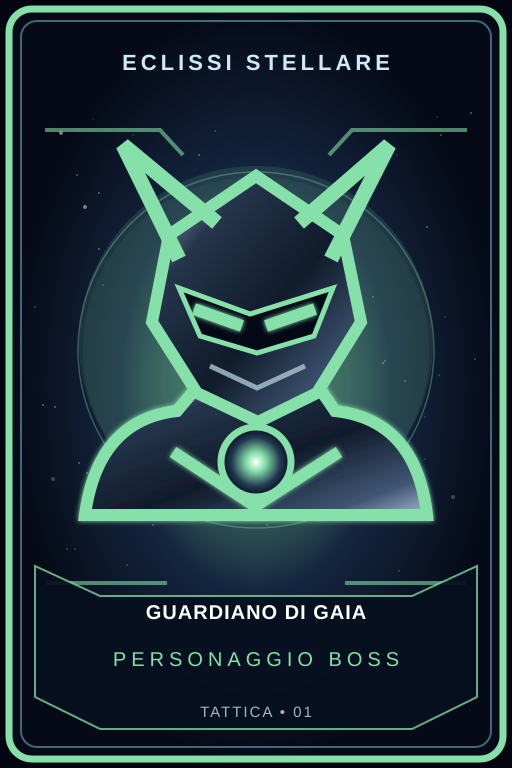
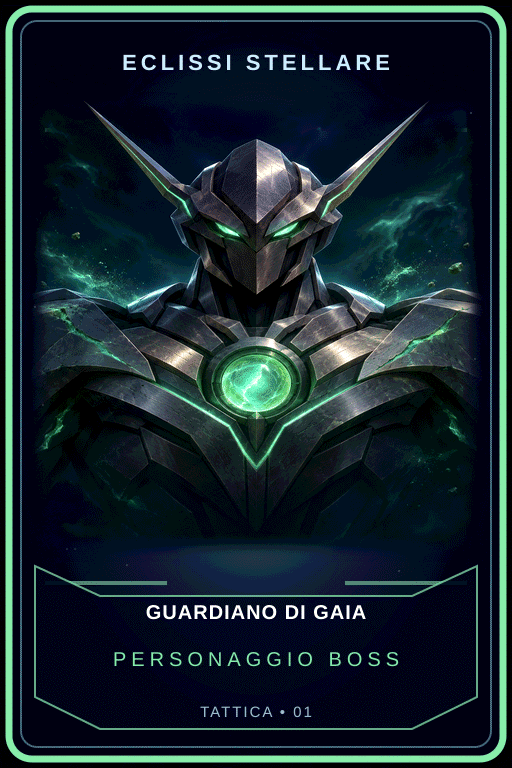
Illustra quattro carte speciali e chiarisce il duello simulato

diff --git a/src/App.tsx b/src/App.tsx
@@ -1963,10 +1963,10 @@ const LANGUAGES = Object.freeze({
 
 // 1.9 SEMI BALISTICI & SINERGIE TEMPORALI / ECONOMICHE / CURE PERCENTUALI
 const SUITS = Object.freeze([
-  { id: 'hearts', name: 'Cuori', symbol: 'â™¥', color: '#f43f5e', glow: 'rgba(244, 63, 94, 0.85)', synergy: '+8% HP Max Cura (+12% Toro) | Dorato: +16% (+24%)' },
-  { id: 'diamonds', name: 'Quadri', symbol: 'â™¦', color: '#00f2fe', glow: 'rgba(0, 242, 254, 0.85)', synergy: '+2 Polvere 🌟 | Dorato: +20 🌟 e 10% 💎' },
-  { id: 'spades', name: 'Picche', symbol: 'â™ ', color: '#c084fc', glow: 'rgba(192, 132, 252, 0.85)', synergy: '+3 HP Danno Diretto | Dorato: +8 HP Puro' },
-  { id: 'clubs', name: 'Fiori', symbol: 'â™£', color: '#10b981', glow: 'rgba(16, 185, 129, 0.85)', synergy: '+5s Serbatoio Tempo | Dorato: +15s e +1🔮' }
+  { id: 'hearts', name: 'Cuori', symbol: '♥', color: '#f43f5e', glow: 'rgba(244, 63, 94, 0.85)', synergy: '+8% HP Max Cura (+12% Toro) | Dorato: +16% (+24%)' },
+  { id: 'diamonds', name: 'Quadri', symbol: '♦', color: '#00f2fe', glow: 'rgba(0, 242, 254, 0.85)', synergy: '+2 Polvere 🌟 | Dorato: +20 🌟 e 10% 💎' },
+  { id: 'spades', name: 'Picche', symbol: '♠', color: '#c084fc', glow: 'rgba(192, 132, 252, 0.85)', synergy: '+3 HP Danno Diretto | Dorato: +8 HP Puro' },
+  { id: 'clubs', name: 'Fiori', symbol: '♣', color: '#10b981', glow: 'rgba(16, 185, 129, 0.85)', synergy: '+5s Serbatoio Tempo | Dorato: +15s e +1🔮' }
 ]);
 
 // 1.10 FACCE DADI QUANTICI 2D (DISPLAY B)
@@ -20977,20 +20977,20 @@ function App() {
       )}
 
 
-            {/* MODALE SELEZIONE CANALE PVP & 4 MODALITÀ FARMING */}
+            {/* Selezione del circuito PvP simulato */}
       {showPvPChannelModal && (
         <div style={{ position: 'fixed', inset: 0, background: 'rgba(2, 4, 12, 0.96)', display: 'flex', alignItems: 'center', justifyContent: 'center', zIndex: 15000, padding: '1rem' }}>
           <div className="cyber-panel" style={{ padding: '1.25rem', maxWidth: '460px', width: '100%', maxHeight: '90vh', overflowY: 'auto', border: '2px solid #00f2fe', boxShadow: '0 0 45px rgba(0, 242, 254, 0.5)' }}>
             <div style={{ display: 'flex', justifyContent: 'space-between', alignItems: 'center', borderBottom: '1px solid rgba(255, 255, 255, 0.12)', paddingBottom: '0.4rem', marginBottom: '0.85rem' }}>
               <h3 style={{ color: '#00f2fe', margin: 0, fontWeight: '900', fontSize: '1.1rem', textShadow: '0 0 8px rgba(0, 242, 254, 0.6)' }}>
-                Seleziona Circuito PvP
+                Seleziona Circuito PvP Simulato
               </h3>
               <button className="cyber-btn" onClick={() => setShowPvPChannelModal(false)} style={{ background: '#ef4444', borderColor: '#f87171', padding: '0.2rem 0.5rem' }}>X</button>
             </div>
 
             <div style={{ display: 'flex', flexDirection: 'column', gap: '0.85rem' }}>
               
-              {/* CANALE A: ADDESTRAMENTO & FARMING CON LE 4 MODALITÀ SBLOCCABILI */}
+              {/* Canale Addestramento */}
               {(() => {
                 const isTrainingUnlocked = currentGlobalAdventureSector >= pvpTrainingUnlockThreshold;
                 return (
@@ -21004,11 +21004,11 @@ function App() {
                     }}
                   >
                     <div style={{ display: 'flex', justifyContent: 'space-between', alignItems: 'center', marginBottom: '4px' }}>
-                      <span style={{ fontSize: '0.9rem', fontWeight: '900', color: '#38bdf8' }}>Canale Addestramento (Farming)</span>
+                      <span style={{ fontSize: '0.9rem', fontWeight: '900', color: '#38bdf8' }}>Canale Addestramento</span>
                       <span style={{ fontSize: '0.62rem', background: '#0284c7', padding: '2px 6px', borderRadius: '4px', color: '#fff', fontWeight: 'bold' }}>{trainingEntryCost} Crediti ⚡</span>
                     </div>
                                         <p style={{ fontSize: '0.68rem', color: '#cbd5e1', margin: '0 0 0.5rem 0' }}>
-                      Nessun rischio Trofei. Scegli la modalità di combattimento per allenarti:
+                      Allenati contro un pilota IA sulla plancia ufficiale.
                     </p>
 
                                         <button
@@ -21063,11 +21063,8 @@ function App() {
                       <span style={{ fontSize: '0.9rem', fontWeight: '900', color: '#fde047' }}>Lega Élite Simulata</span>
                       <span className="pvp-ticket-counter">Gioca ({remainingEliteMatches}/10)</span>
                     </div>
-                    <div style={{ fontSize: '0.68rem', color: '#38bdf8', fontWeight: 'bold', margin: '2px 0' }}>
-                      Modalità di oggi: {dailyMode.title}
-                    </div>
                     <p style={{ fontSize: '0.68rem', color: '#cbd5e1', margin: 0, lineHeight: '1.3' }}>
-                      Valutazione a 3 Stelle e classifica locale contro 500 piloti IA. Nessun podio mondiale reale.
+                      Affronta piloti IA. Hai 10 duelli Élite al giorno.
                     </p>
                     <div style={{ fontSize: '0.62rem', color: isEliteUnlocked ? '#facc15' : '#f87171', fontWeight: 'bold', marginTop: '2px' }}>
                       {isEliteUnlocked ? (remainingEliteMatches > 0 ? `✓ Sbloccato (Costo 0⚡ | ${remainingEliteMatches} partite rimaste)` : '⚠ Partite Giornaliere Esaurite') : `🔒 Richiede Settore ${pvpEliteUnlockThreshold} Avventura`}
@@ -21087,13 +21084,6 @@ function App() {
         const isElite = pendingPvPConfirmation.channel === 'elite';
         const costCredits = isElite ? 0 : trainingEntryCost;
         const canAfford = credits >= costCredits;
-        const dailyMode = getDailyPvPMode();
-                const modeLabels = {
-          classic: 'Classica (4 Operazioni)',
-          vector: 'Vettore Geometrico',
-          double_stage: 'Convergenza (Banco 2+2)',
-          tris: 'Tris Stellare'
-        };
 
         return (
           <div style={{ position: 'fixed', inset: 0, background: 'rgba(2, 4, 12, 0.98)', display: 'flex', alignItems: 'center', justifyContent: 'center', zIndex: 32000, padding: '1rem' }}>
@@ -21101,65 +21091,18 @@ function App() {
             <div className="cyber-panel" style={{ padding: '1.25rem', maxWidth: '440px', width: '100%', maxHeight: '90vh', overflowY: 'auto', textAlign: 'center', border: `2px solid ${isElite ? '#facc15' : '#00f2fe'}`, boxShadow: `0 0 45px ${isElite ? 'rgba(250, 204, 21, 0.6)' : 'rgba(0, 242, 254, 0.6)'}` }}>
               
               <div style={{ fontSize: '0.65rem', color: '#facc15', fontWeight: '900', letterSpacing: '1px' }}>
-                {isElite ? 'BRIEFING TATTICO ÉLITE' : 'CONFERMA ADDESTRAMENTO'}
+                DUELLO SIMULATO
               </div>
               <h3 style={{ color: isElite ? '#fde047' : '#00f2fe', margin: '0.2rem 0 0.5rem 0', fontWeight: '900', fontSize: '1.15rem' }}>
-                {isElite ? `Lega Élite — ${dailyMode.title}` : `Addestramento — ${modeLabels[pendingPvPConfirmation.mode]}`}
+                {isElite ? 'Lega Élite Simulata' : 'Addestramento'}
               </h3>
 
-              {/* Riquadro Dettagliato a 3 Stelle Esclusivo per l'Élite */}
-              {isElite ? (
-                <div style={{ background: 'rgba(15, 23, 42, 0.9)', padding: '0.75rem', borderRadius: '8px', border: '1.5px solid rgba(250, 204, 21, 0.4)', marginBottom: '0.85rem', textAlign: 'left' }}>
-                  <div style={{ fontSize: '0.65rem', color: '#facc15', fontWeight: '900', textTransform: 'uppercase', marginBottom: '0.4rem', textAlign: 'center' }}>
-                    🎯 OBIETTIVI 3 STELLE & SCAGLIONI TROFEI
-                  </div>
-
-                  <div style={{ display: 'flex', flexDirection: 'column', gap: '0.4rem', fontSize: '0.68rem' }}>
-                    <div style={{ display: 'flex', justifyContent: 'space-between', alignItems: 'center', background: 'rgba(2, 6, 23, 0.7)', padding: '4px 6px', borderRadius: '4px', border: '1px solid rgba(255,255,255,0.08)' }}>
-                      <div>
-                        <span style={{ color: '#facc15', fontWeight: '900' }}>⭐ 1ª Stella:</span> <span>Vittoria Base</span>
-                      </div>
-                      <strong style={{ color: '#38bdf8' }}>+15 🏆 (50%)</strong>
-                    </div>
-
-                    <div style={{ display: 'flex', justifyContent: 'space-between', alignItems: 'center', background: 'rgba(2, 6, 23, 0.7)', padding: '4px 6px', borderRadius: '4px', border: '1px solid rgba(255,255,255,0.08)' }}>
-                      <div>
-                        <span style={{ color: '#facc15', fontWeight: '900' }}>⭐⭐ 2ª Stella:</span> <span>HP Residui ≥ 50%</span>
-                      </div>
-                      <strong style={{ color: '#38bdf8' }}>+22 🏆 (75%)</strong>
-                    </div>
-
-                    <div style={{ background: 'rgba(234, 179, 8, 0.15)', padding: '5px 6px', borderRadius: '4px', border: '1px solid #facc15' }}>
-                      <div style={{ display: 'flex', justifyContent: 'space-between', alignItems: 'center' }}>
-                        <span style={{ color: '#fde047', fontWeight: '900' }}>⭐⭐⭐ 3ª Stella (Oggi):</span>
-                        <strong style={{ color: '#facc15' }}>+30 🏆 + 1 💎 (100%)</strong>
-                      </div>
-                      <div style={{ color: '#fff', fontWeight: 'bold', marginTop: '2px' }}>
-                        « {dailyMode.star3Challenge.title} »
-                      </div>
-                      <div style={{ color: '#cbd5e1', fontSize: '0.62rem', lineHeight: '1.2' }}>
-                        {dailyMode.star3Challenge.desc}
-                      </div>
-                    </div>
-                  </div>
-
-                  <div style={{ marginTop: '6px', fontSize: '0.62rem', color: '#fca5a5', borderTop: '1px dashed rgba(255,255,255,0.1)', paddingTop: '4px' }}>
-                    * Penalità sconfitta: <strong>-10 🏆</strong> (attiva solo sopra i 100 Trofei).
-                  </div>
-                </div>
-              ) : (
-                <div style={{ background: 'rgba(15, 23, 42, 0.85)', padding: '0.75rem', borderRadius: '8px', border: '1px solid rgba(56, 189, 248, 0.3)', marginBottom: '0.85rem', textAlign: 'left' }}>
-                  <div style={{ fontSize: '0.72rem', color: '#cbd5e1', marginBottom: '3px' }}>
-                    • Costo d'Ingresso: <strong style={{ color: canAfford ? '#00f2fe' : '#ef4444' }}>{trainingEntryCost} Crediti ⚡</strong>
-                  </div>
-                  <div style={{ fontSize: '0.72rem', color: '#cbd5e1', marginBottom: '3px' }}>
-                    • Impatto Trofei: <strong style={{ color: '#10b981' }}>Nessuno (0 🏆 persi/vinti)</strong>
-                  </div>
-                  <div style={{ fontSize: '0.72rem', color: '#cbd5e1' }}>
-                    • Ricompense Vittoria: <strong style={{ color: '#fde047' }}>+45 🌟 Polvere | +80 XP | +20 ⚡ Crediti</strong>
-                  </div>
-                </div>
-              )}
+              <div style={{ background: 'rgba(15, 23, 42, 0.85)', padding: '0.75rem', borderRadius: '8px', border: '1px solid rgba(56, 189, 248, 0.3)', marginBottom: '0.85rem', textAlign: 'left', fontSize: '0.72rem', color: '#cbd5e1' }}>
+                <p style={{ margin: '0 0 3px' }}>
+                  Ingresso <strong style={{ color: canAfford ? '#00f2fe' : '#ef4444' }}>{isElite ? 'gratuito' : `${costCredits} Crediti ⚡`}</strong>
+                </p>
+                <p style={{ margin: 0 }}>Duello contro l’IA, senza ricompense o variazioni dei trofei.</p>
+              </div>
 
               <div style={{ display: 'flex', flexDirection: 'column', gap: '0.45rem' }}>
                 <button
@@ -21177,7 +21120,7 @@ function App() {
                   className={`cyber-btn ${isElite ? 'cyber-btn-warning' : 'cyber-btn-primary'}`}
                   style={{ width: '100%', padding: '0.75rem', fontSize: '0.9rem', fontWeight: '900' }}
                 >
-                  {canAfford ? "AVVIA MATCHMAKING ➔" : `Crediti Insufficienti (${costCredits}⚡)`}
+                  {canAfford ? 'AVVIA DUELLO SIMULATO ➔' : `Crediti Insufficienti (${costCredits}⚡)`}
                 </button>
                 <button className="cyber-btn" onClick={() => setPendingPvPConfirmation(null)} style={{ width: '100%', padding: '0.4rem', fontSize: '0.75rem' }}>
                   Annulla

diff --git a/src/HomeScreen.jsx b/src/HomeScreen.jsx
@@ -713,7 +713,7 @@ export default function HomeScreen({
             <span style={{ display: 'flex', alignItems: 'center', gap: '3px' }}>
               <SciFiIcon name="hazard" size={13} color="#fff" /> Duello 1v1
             </span>
-            <span style={{ fontSize: '0.5rem', color: '#f5d0fe', fontWeight: 'normal' }}>Online</span>
+            <span style={{ fontSize: '0.5rem', color: '#f5d0fe', fontWeight: 'normal' }}>Simulato</span>
           </button>
 
           {/* 4. Assetto Nave */}
